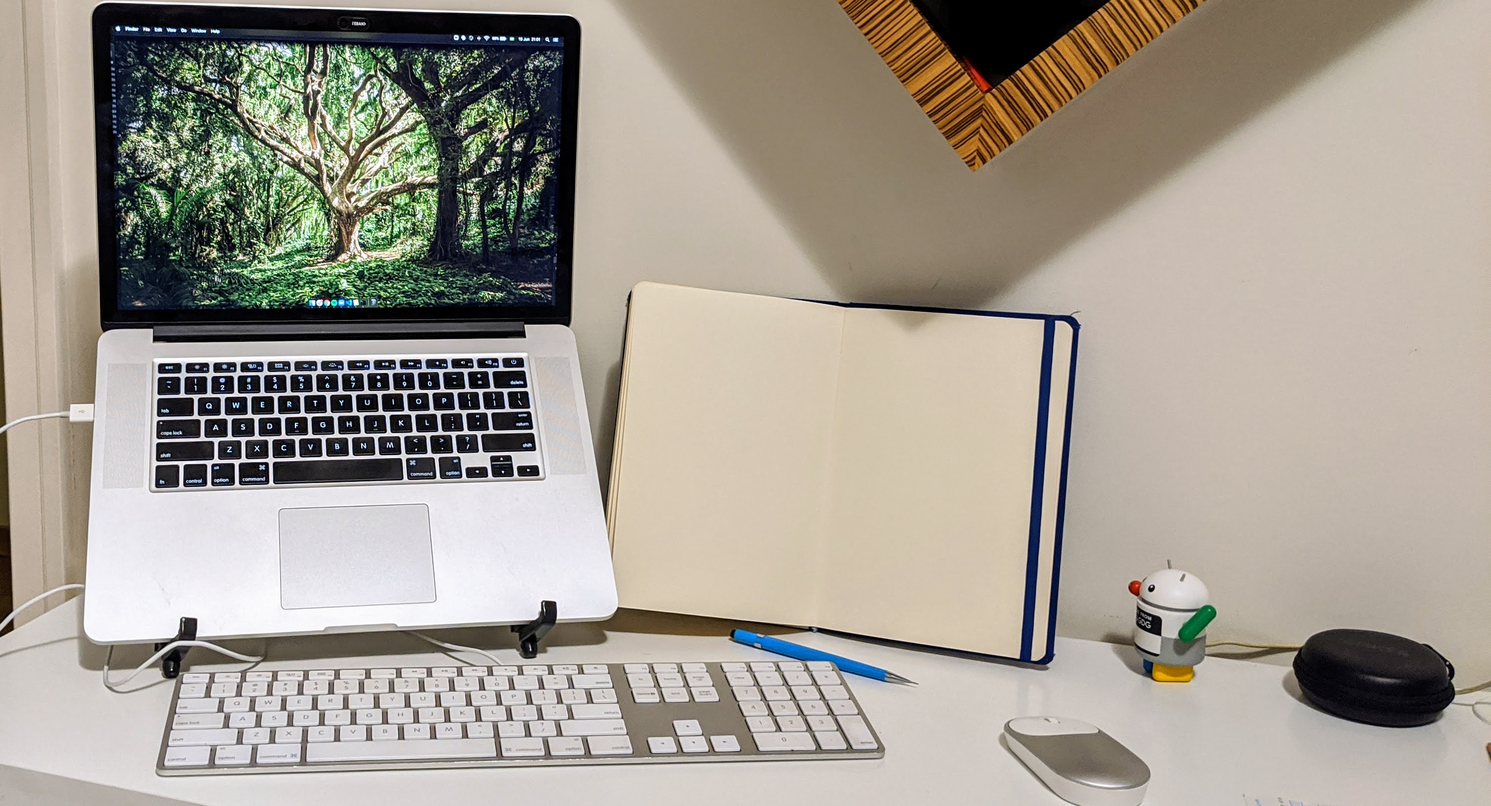
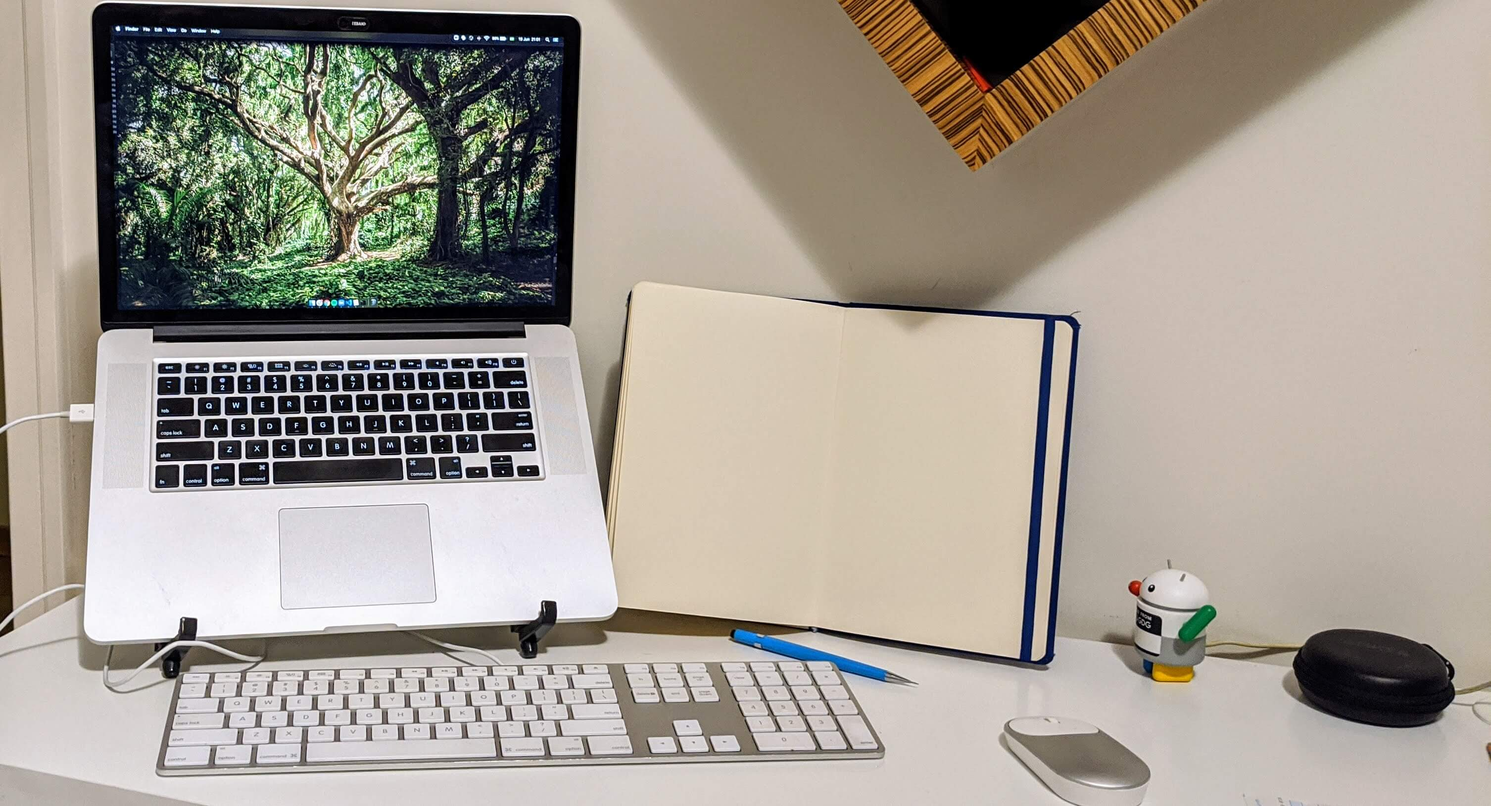
add compressed images

diff --git a/_layouts/default.html b/_layouts/default.html
@@ -38,7 +38,7 @@
       <div class="background">
         <img src="/images/bg-polygon-grey-dark.jpg">
       </div>
-      <img class="circle" src="/images/selfie4.jpg">
+      <img class="circle" src="/images/gui_photo_circle.png">
       <span class="white-text name">Gui Carneiro</span>
       <span class="white-text email">Dev & Maker</span>
     </div></li>
